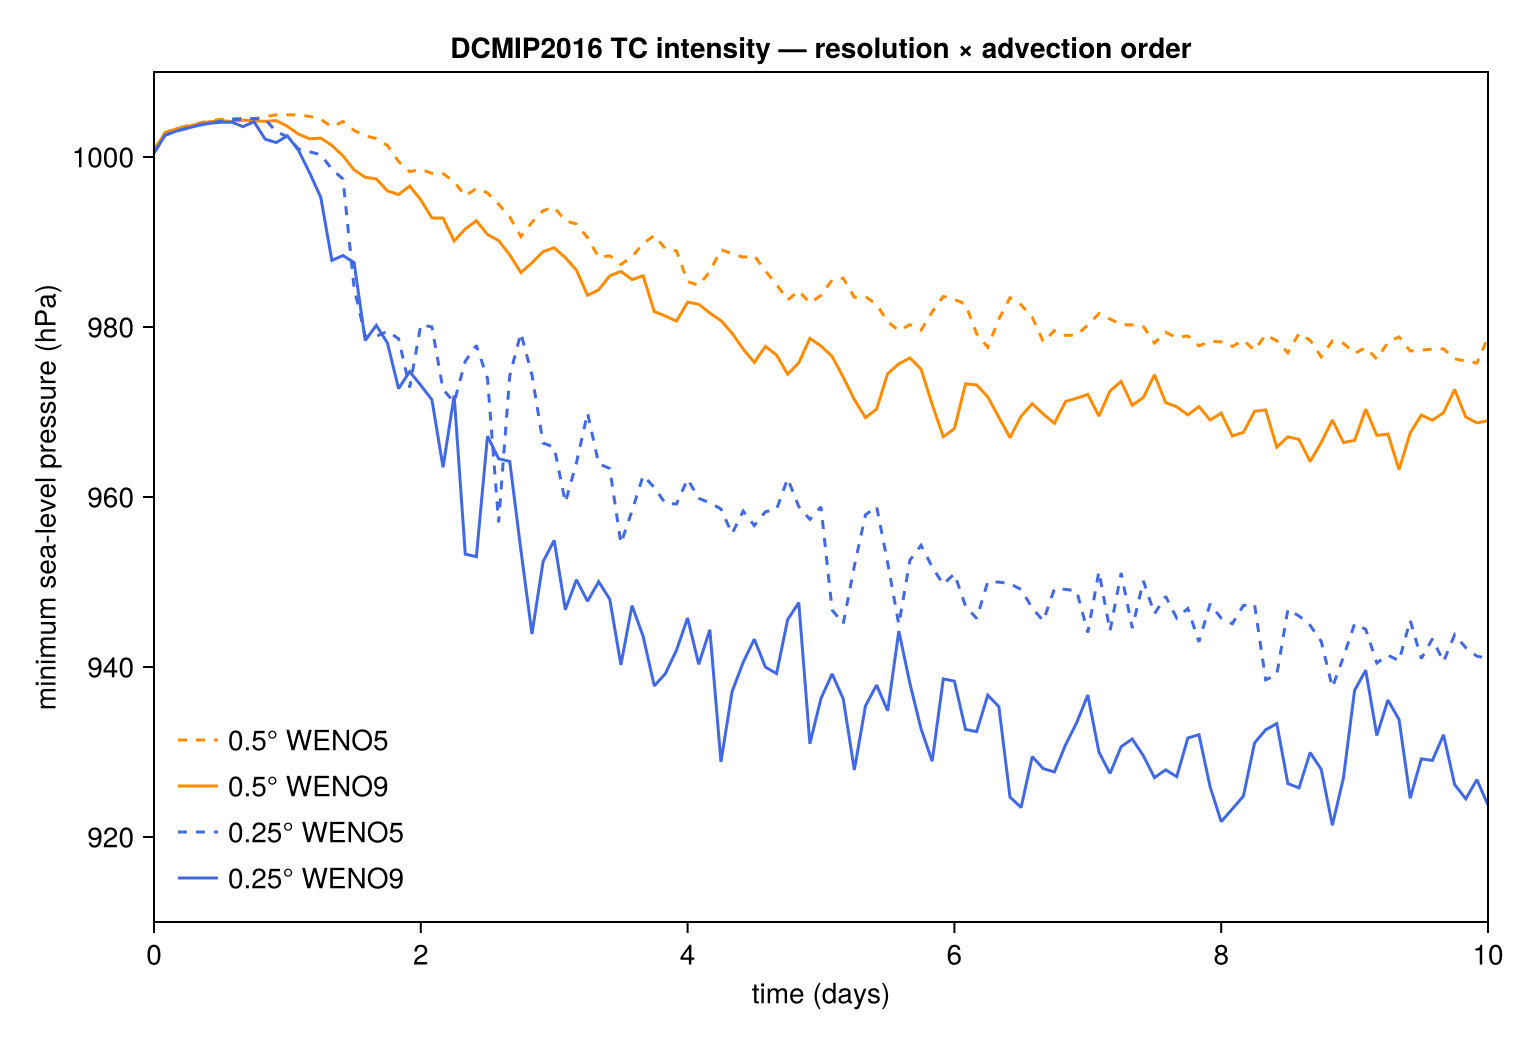
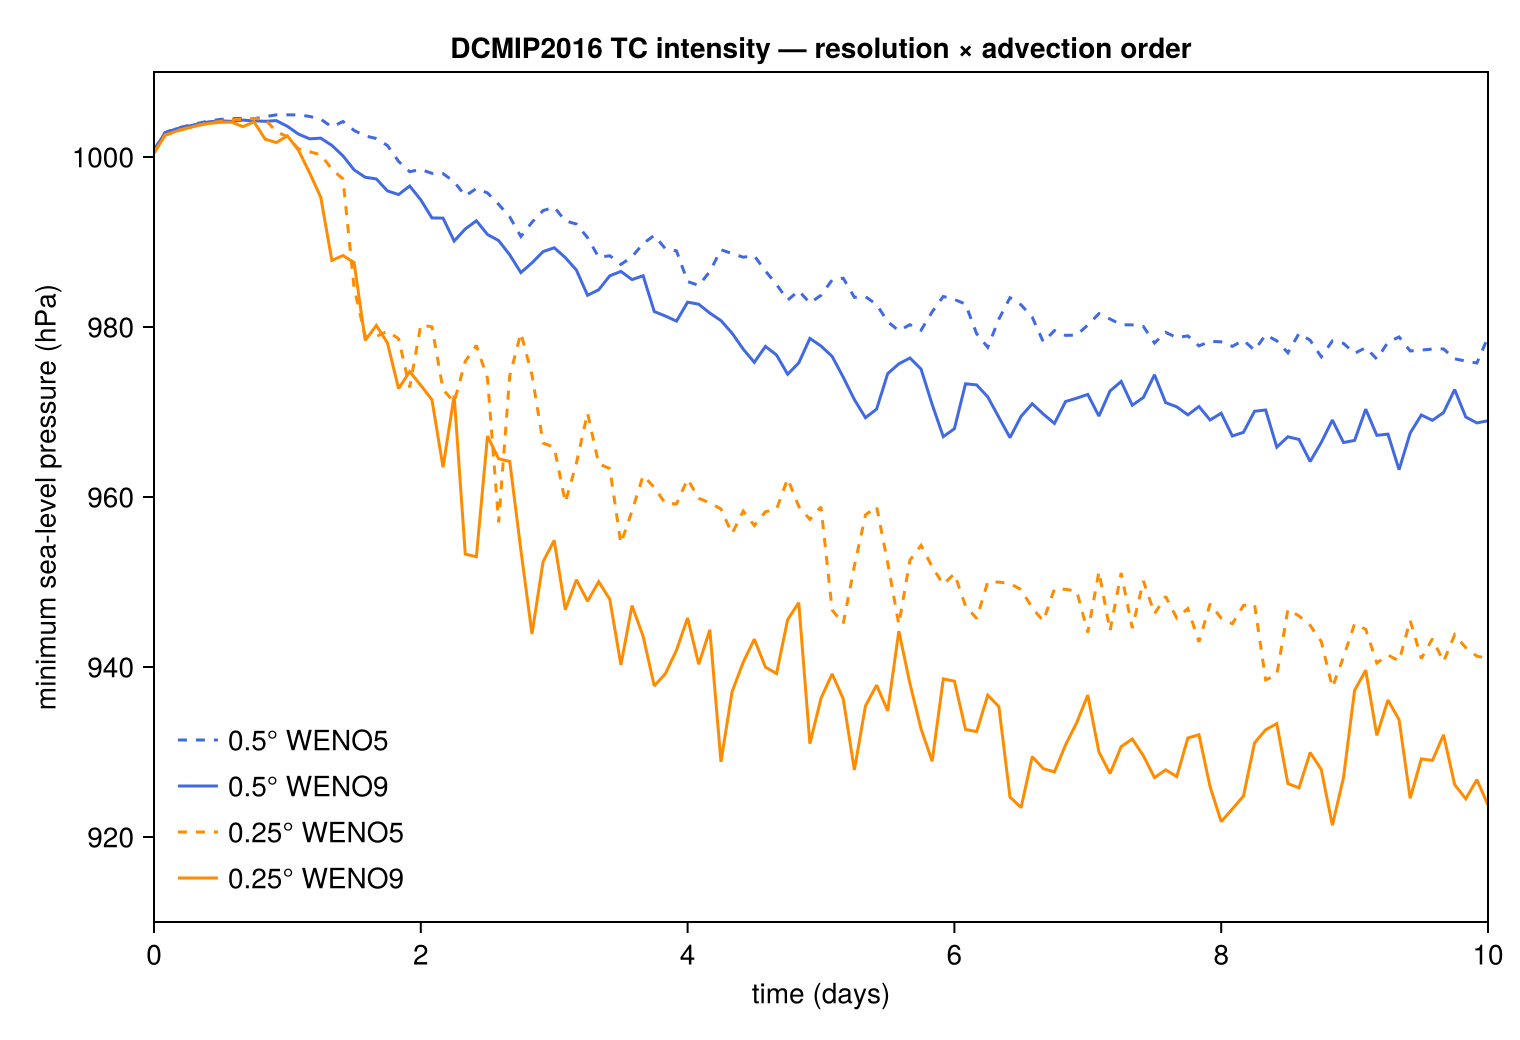
Human editing

diff --git a/validation/DCMIP2016_TC/dcmip2016_tc_intercomparison.md b/validation/DCMIP2016_TC/dcmip2016_tc_intercomparison.md
@@ -1,37 +1,38 @@
 # DCMIP2016 tropical cyclone: resolution and advection intercomparison
 
-This study quantifies how the numerics — horizontal resolution, advection order, and
+This study quantifies how numerics — horizontal resolution, advection order, and
 vertical level placement — control the intensification of the Reed–Jablonowski tropical
-cyclone ([Reed & Jablonowski 2012](https://doi.org/10.1029/2011MS000099)) in Breeze.jl.
-The analytic balanced vortex is a standard non-hydrostatic dynamical-core benchmark
-of the 2016 Dynamical Core Intercomparison Project (DCMIP)
-([Ullrich et al. 2016](https://doi.org/10.5194/gmd-10-4477-2017);
-[Willson et al. 2024](https://doi.org/10.5194/gmd-17-2493-2024)): a weak warm-core
-vortex placed in a quiescent moist tropical sounding intensifies into a tropical
-cyclone over ~10 days, driven entirely by bulk surface enthalpy fluxes over a fixed
-302.15 K sea surface.
+cyclone ([Reed & Jablonowski 2012](https://doi.org/10.1029/2011MS000099)), a standard
+non-hydrostatic dynamical-core benchmark of the 2016 Dynamical Core Intercomparison
+Project (DCMIP; [Ullrich et al. 2016](https://doi.org/10.5194/gmd-10-4477-2017),
+[Willson et al. 2024](https://doi.org/10.5194/gmd-17-2493-2024)). Starting from
+quiescent background conditions described by a moist tropical sounding, a weak, warm-core
+analytical vortex intensifies into a tropical cyclone (TC) over ~10 days, driven entirely
+by bulk surface enthalpy fluxes over a fixed 302.15 K sea surface.
 
-The model configuration — vortex, sounding, lid, and the complete Reed–Jablonowski
-"simple physics" (wind-dependent surface drag, wind-dependent boundary-layer mixing, and
-`InstantaneousPrecipitation` rain-out) — is defined once in `dcmip2016_tc.jl`. Here
-we hold all of that fixed and run two studies:
+The model configuration — initial vortex, background sounding, grid height, and the
+complete Reed–Jablonowski "simple physics" package (wind-dependent surface drag,
+wind-dependent boundary-layer mixing, and `InstantaneousPrecipitation` rain-out) — is
+defined in `dcmip2016_tc.jl`. We hold those parameters fixed and run two studies:
 
-  * **Study 1** — horizontal resolution (**0.5°** vs **0.25°**) × advection order
+  * **Study 1**: horizontal resolution (**0.5°** vs **0.25°**) × advection order
     (**WENO5** vs **WENO9**).
-  * **Study 2** — effective vertical resolution at fixed 0.5° WENO9: the 32-level baseline,
+  * **Study 2**: effective vertical resolution at fixed 0.5° WENO9: the 32-level baseline,
     a count-doubled 64-level grid, and a 64-level grid with levels clustered in the
     5–14 km updraft layer.
 
 The TC intensity metrics of interest are the minimum sea-level pressure (MSP) and maximum
-tangential wind at 1 km atltitude (MWS) — together with the mature-storm (days 4-10)
-azimuthally-averaged storm structure, compared against the balanced tropical cyclone
-reported by Willson et al. (2024, their Figs. 5 and 7).
+tangential wind at 1 km atltitude (MWS). Time histories are shown along with the
+mature-storm (days 4-10) azimuthally-averaged storm structure, compared against the
+balanced TC reported by Willson et al. (2024, their Figs. 5 and 7).
 
 > **Compute.** These are 10-day global runs and are **not** part of the docs/CI build. Run
 > this script on a GPU node (`julia --project dcmip2016_tc_intercomparison.jl`); the six
 > unique configurations total ≈ 1.75 h on one H100 (0.5° runs ≈ 8 min, 0.25° runs ≈ 37
 > min). Each run is skipped if its `<prefix>_psfc.jld2` already exists, so the study
 > resumes cheaply. The figures committed alongside this file were produced this way.
+
+## Setup
 
 ````julia
 using Oceananigans
@@ -50,13 +51,14 @@ include("dcmip2016_tc.jl")
 CairoMakie.activate!(type = "png")
 ````
 
-## Diagnostics from the surface-pressure output
+### Diagnostics from the surface-pressure output
 
-Each run writes only its surface pressure (`<prefix>_psfc.jld2`) — enough for both the
-intensity time series and the radial structure, and small enough that all runs fit on
-disk. `analyze_surface_pressure` reduces one run to (i) the MSP time series and (ii) the
+Each run writes its surface pressure (`<prefix>_psfc.jld2`) providing the intensity time
+series and the radial structure.
+
+`analyze_surface_pressure` reduces one run to (i) the MSP time series and (ii) the
 days-4–10 azimuthally-averaged radial pressure profile, recentered on the instantaneous
-eye (minimum surface pressure) each frame so the storm's drift does not smear the average.
+eye (location of MSP) each frame so the storm's drift does not smear the average.
 
 ````julia
 const EARTH_RADIUS = 6371220.0   # m, DCMIP2016 planet radius
@@ -118,15 +120,15 @@ end
 
 ## Study 1: horizontal resolution × advection order
 
-Resolution is encoded by colour (0.5° orange, 0.25° blue) and advection order by line
-style (WENO5 dashed, WENO9 solid), so the two effects can be read off independently.
+Resolution is encoded by color (0.5° blue, 0.25° orange) and advection order by line
+style (WENO5 dashed, WENO9 solid).
 
 ````julia
 configs = [
-    (; resolution = 0.5,  advection_order = 5, label = "0.5° WENO5",  color = :darkorange, linestyle = :dash),
-    (; resolution = 0.5,  advection_order = 9, label = "0.5° WENO9",  color = :darkorange, linestyle = :solid),
-    (; resolution = 0.25, advection_order = 5, label = "0.25° WENO5", color = :royalblue,  linestyle = :dash),
-    (; resolution = 0.25, advection_order = 9, label = "0.25° WENO9", color = :royalblue,  linestyle = :solid),
+    (; resolution = 0.5,  advection_order = 5, label = "0.5° WENO5",  color = :royalblue,  linestyle = :dash),
+    (; resolution = 0.5,  advection_order = 9, label = "0.5° WENO9",  color = :royalblue,  linestyle = :solid),
+    (; resolution = 0.25, advection_order = 5, label = "0.25° WENO5", color = :darkorange, linestyle = :dash),
+    (; resolution = 0.25, advection_order = 9, label = "0.25° WENO9", color = :darkorange, linestyle = :solid),
 ]
 
 config_prefix(cfg) = "dcmip_tc_$(cfg.resolution)deg_weno$(cfg.advection_order)"
@@ -204,13 +206,15 @@ end
 
 The picture is consistent with the published DCMIP2016 intercomparison. Halving the grid
 spacing from 0.5° to 0.25° deepens the storm by ~38 hPa (WENO5) to ~42 hPa (WENO9): the
-0.5° grid (~55 km) barely resolves the eyewall (RMW ~50–75 km ≈ one grid cell), whereas
-0.25° resolves it directly. Raising the advection order from WENO5 to WENO9 lowers the
+0.5° grid (~55 km) barely resolves the eyewall, described by a radius of maximum wind
+(RMW) ~50–75 km ≈ one grid cell, whereas 0.25° resolves it directly.
+
+Raising the advection order from WENO5 to WENO9 lowers the
 implicit numerical diffusion and deepens the storm by a further ~13 hPa at 0.5° and ~16 hPa
 at 0.25°. The 0.25° WENO9 storm — the configuration `dcmip2016_tc.jl` runs by default —
 reaches ≈ 921 hPa and develops the realistic, balanced radial structure documented by
 Willson et al. (2024), placing Breeze within the spread of the 0.25° models in that
-intercomparison.
+intercomparison (see [Comparison with Willson et al.](Comparison with Willson et al. (2024))).
 
 ## Study 2: vertical level configuration
 
@@ -229,9 +233,9 @@ grid. We hold 0.5° WENO9 fixed and compare three 30 km-lid vertical grids:
 
 ````julia
 vertical_configs = [
-    (; label = "32 levels (baseline)",        prefix = "dcmip_tc_0.5deg_weno9",        z_faces = stretched_z_faces(32, 4.2),  color = :black,    linestyle = :solid),
-    (; label = "64 levels (×2 uniform)",      prefix = "dcmip_tc_0.5deg_weno9_nz64",   z_faces = stretched_z_faces(64, 4.2),  color = :seagreen, linestyle = :dash),
-    (; label = "64 levels (updraft-refined)", prefix = "dcmip_tc_0.5deg_weno9_vref64", z_faces = updraft_refined_z_faces(),   color = :purple,   linestyle = :solid),
+    (; label = "32 levels (baseline)",        prefix = "dcmip_tc_0.5deg_weno9",        z_faces = stretched_z_faces(32, 4.2),  color = :royalblue, linestyle = :solid),
+    (; label = "64 levels (×2 uniform)",      prefix = "dcmip_tc_0.5deg_weno9_nz64",   z_faces = stretched_z_faces(64, 4.2),  color = :seagreen,  linestyle = :dash),
+    (; label = "64 levels (updraft-refined)", prefix = "dcmip_tc_0.5deg_weno9_vref64", z_faces = updraft_refined_z_faces(),   color = :red,       linestyle = :solid),
 ]
 
 vresults = [run_or_load(vc.prefix; resolution = 0.5, advection_order = 9, z_faces = vc.z_faces)
@@ -292,10 +296,10 @@ diagnostics.
 The point of the DCMIP2016 protocol is the multi-model intercomparison, so we place Breeze
 directly against the [Willson et al. (2024)](https://doi.org/10.5194/gmd-17-2493-2024) ensemble,
 reproducing their Figs. 5, 7, and 8. The published profiles (the nine models at 50 km, five also
-at 25 km, processed with TempestExtremes) are from the Willson Dryad archive in `refdata/`. For a
-fair comparison Breeze is reduced through the *same* TempestExtremes-equivalent pipeline — a
-stable sub-grid storm center and a ring-interpolation azimuthal-mean **tangential** wind on the
-published radial grid (`extract_willson_comparison_data.jl`) — and overlaid by
+at 25 km, processed with the `TempestExtremes` code) are from the Willson Dryad archive in
+`refdata/`. For a fair comparison Breeze is reduced through the *same* TempestExtremes-equivalent
+pipeline — a stable sub-grid storm center and a ring-interpolation azimuthal-mean **tangential**
+wind on the published radial grid (`extract_willson_comparison_data.jl`) — and overlaid by
 `plot_willson_comparison.jl`. The Breeze curves are WENO5 and WENO9 at 0.25°.
 
 > **Reproduction.** Unlike the figures above (surface pressure only), these need the 3-D `(u,v)`
@@ -328,9 +332,9 @@ not by the diagnostic).
 
 ### Radius–height tangential wind — cf. Willson et al. (2024), Fig. 8
 
-Days-4–10 azimuthal-mean tangential-wind composites, one row per model: FV3 (50 km), then ACME-A,
-CAM-SE, Breeze-WENO5, and Breeze-WENO9 (25 km / 0.25°). A cyclonic (red) vortex below the
-tropopause is capped by the anticyclonic (blue) upper-level outflow.
+Days-4–10 azimuthal-mean tangential-wind composites, one row per model: FV3 (50 km), then ACME-A
+(the early version of E3SM), CAM-SE, Breeze-WENO5, and Breeze-WENO9 (25 km / 0.25°). A cyclonic
+(red) vortex below the tropopause is capped by the anticyclonic (blue) upper-level outflow.
 
 ![Comparison with Willson et al. (2024) Fig. 8](postproc/willson_fig8_rz.png)
 